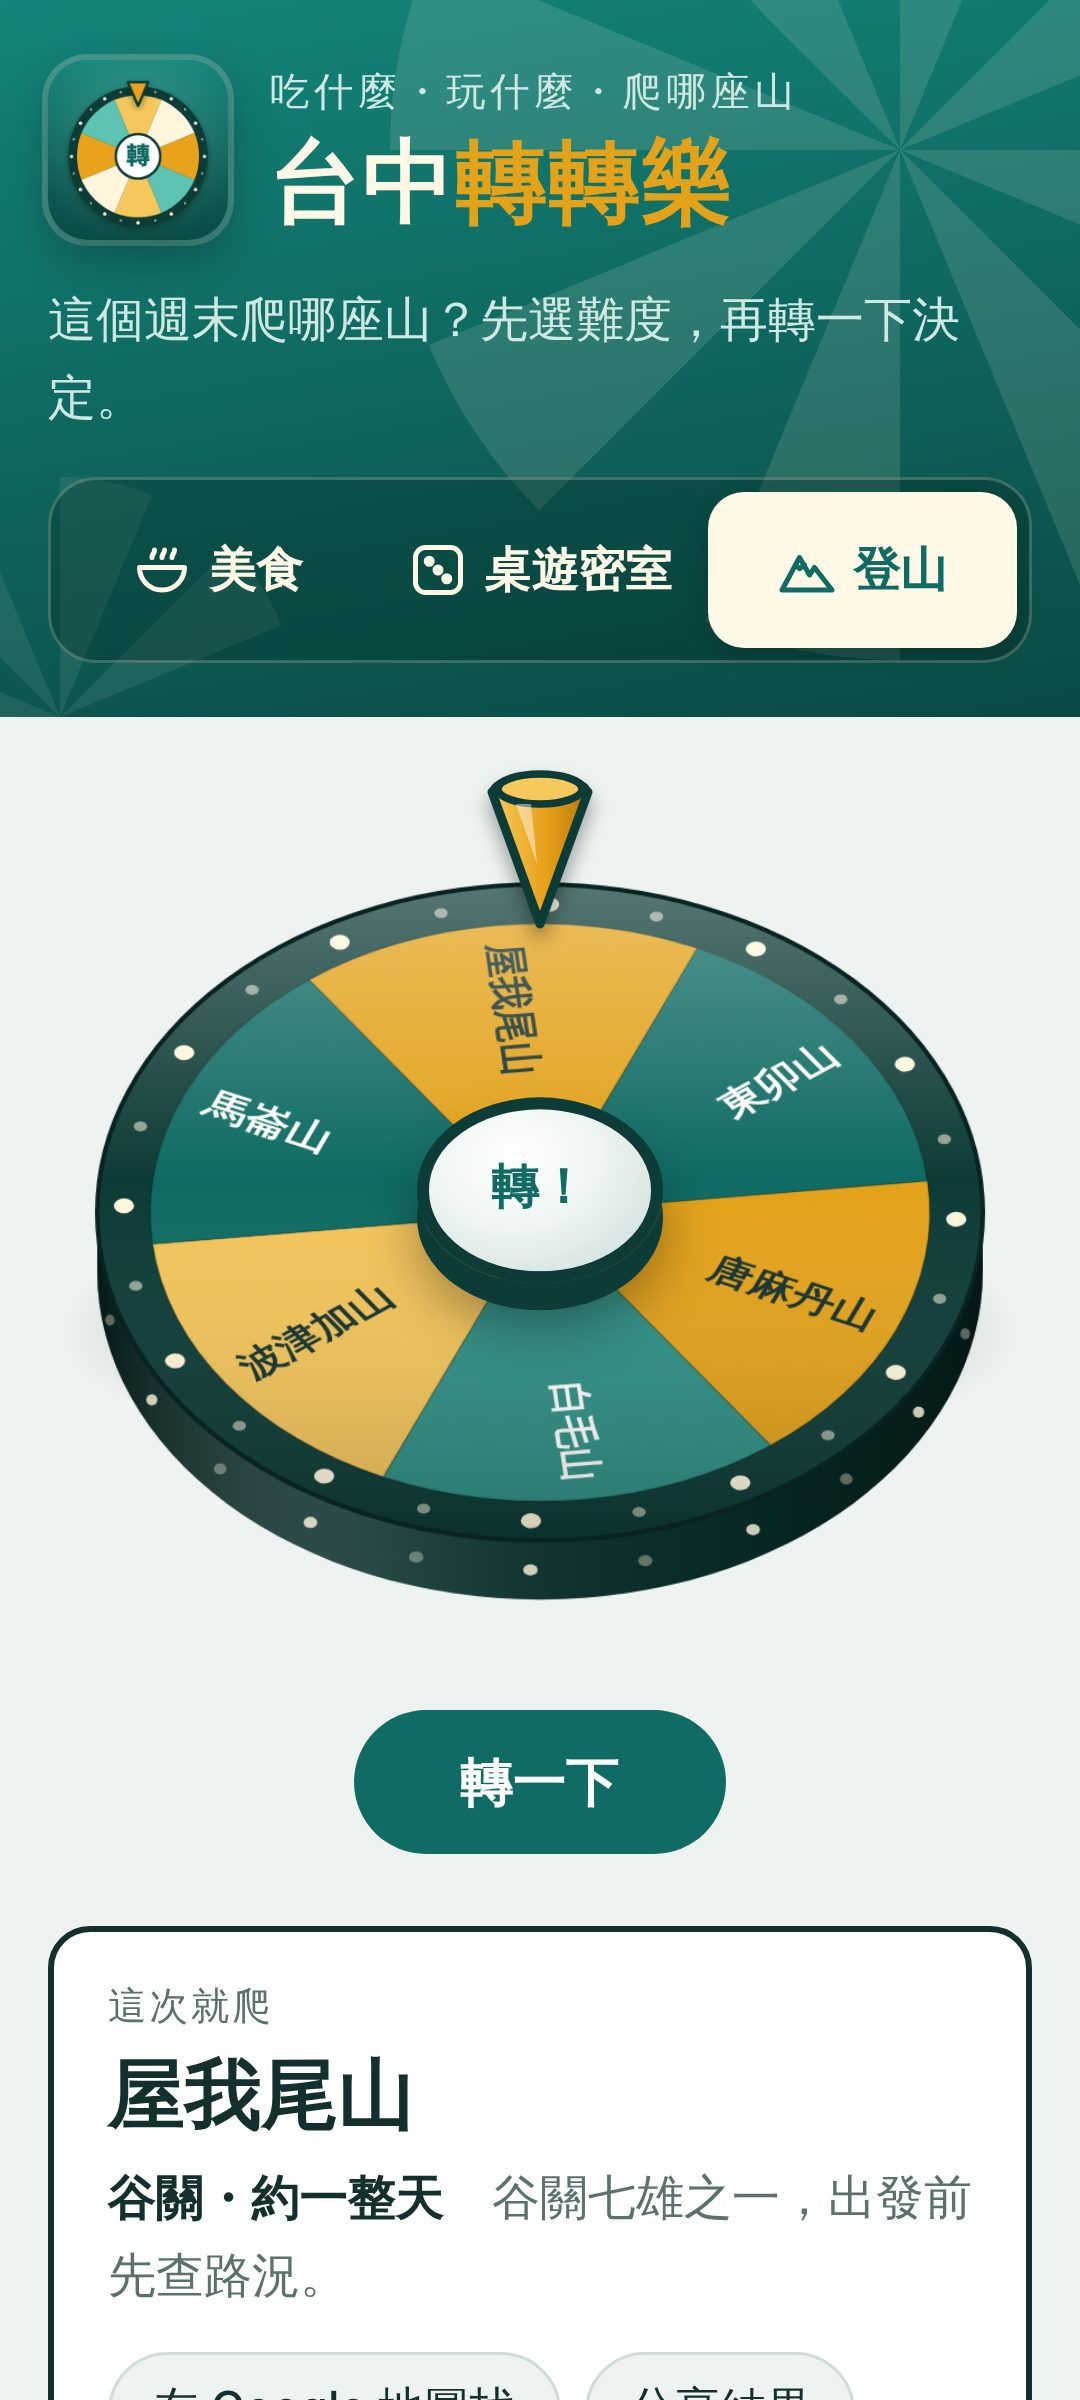
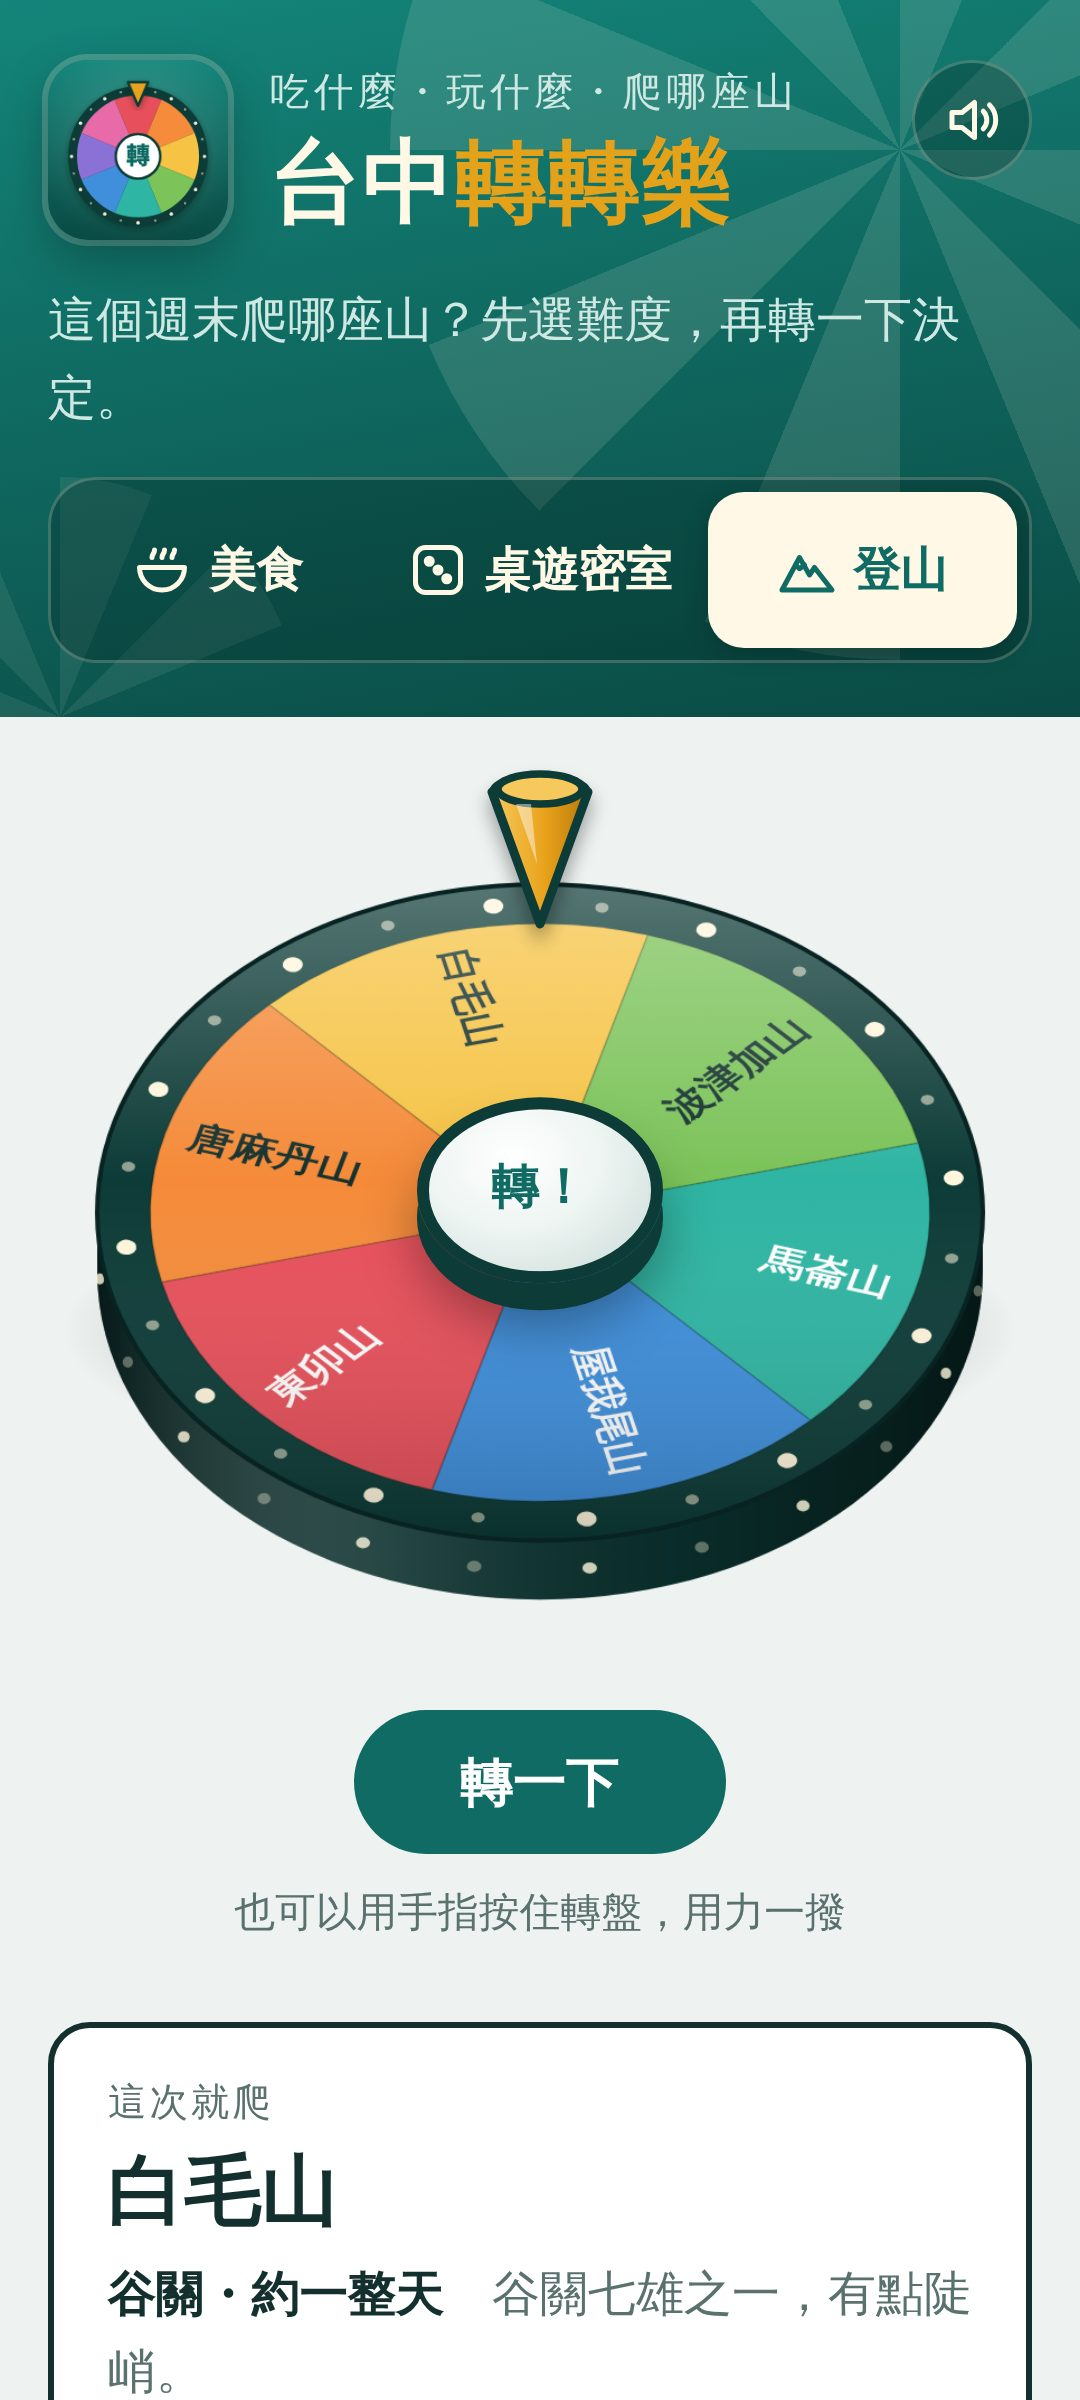
台中轉轉樂：App 圖示改成五彩
Claude-Session: https://claude.ai/code/session_01RjTRgTtaL6n1Y88vUja3y2

diff --git a/wheel/sw.js b/wheel/sw.js
@@ -1,6 +1,6 @@
 // 台中轉轉樂的 service worker：先存好 App 檔案，沒有網路也能開啟。
 // 修改任何檔案後，請把 CACHE 的版本號加一，手機才會更新到新版。
-const CACHE = "taichung-wheels-v8";
+const CACHE = "taichung-wheels-v9";
 const FILES = [
   "./",
   "./index.html",
